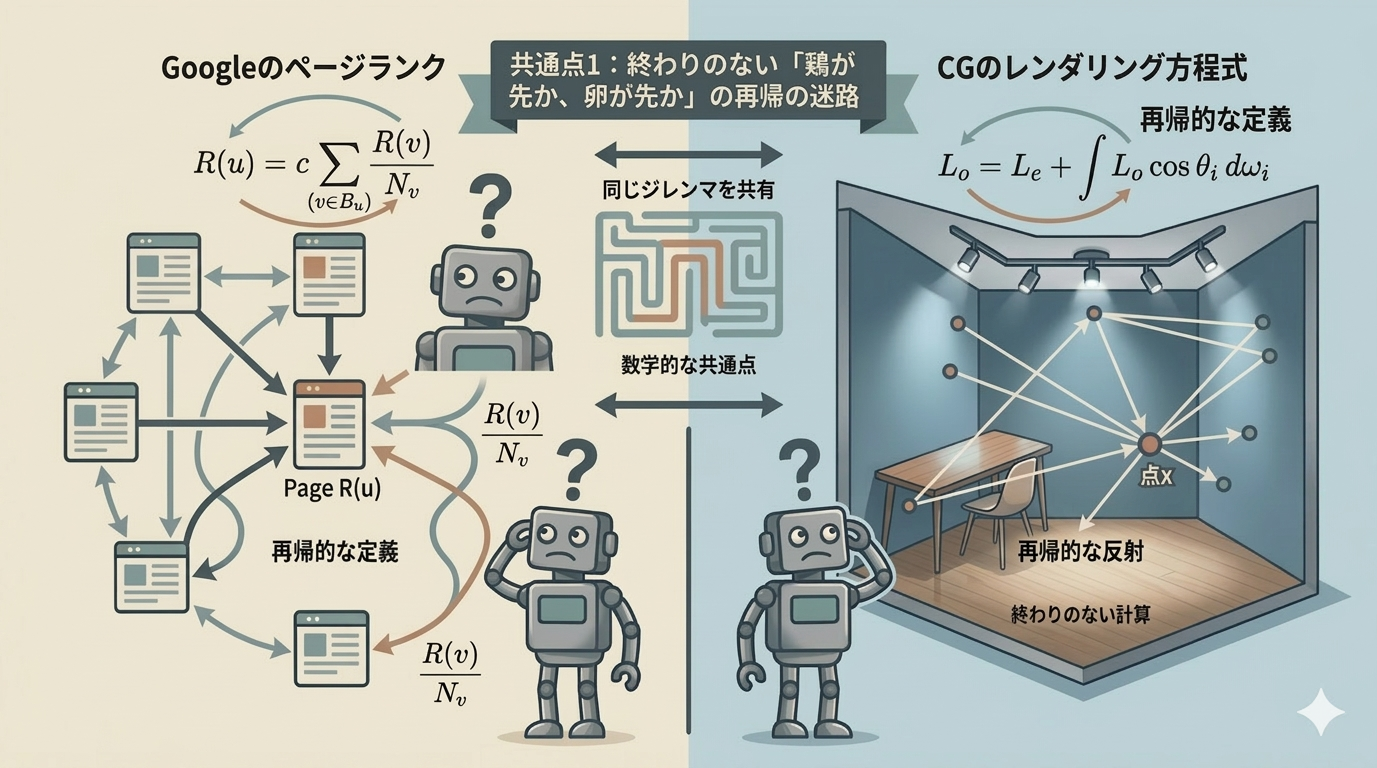
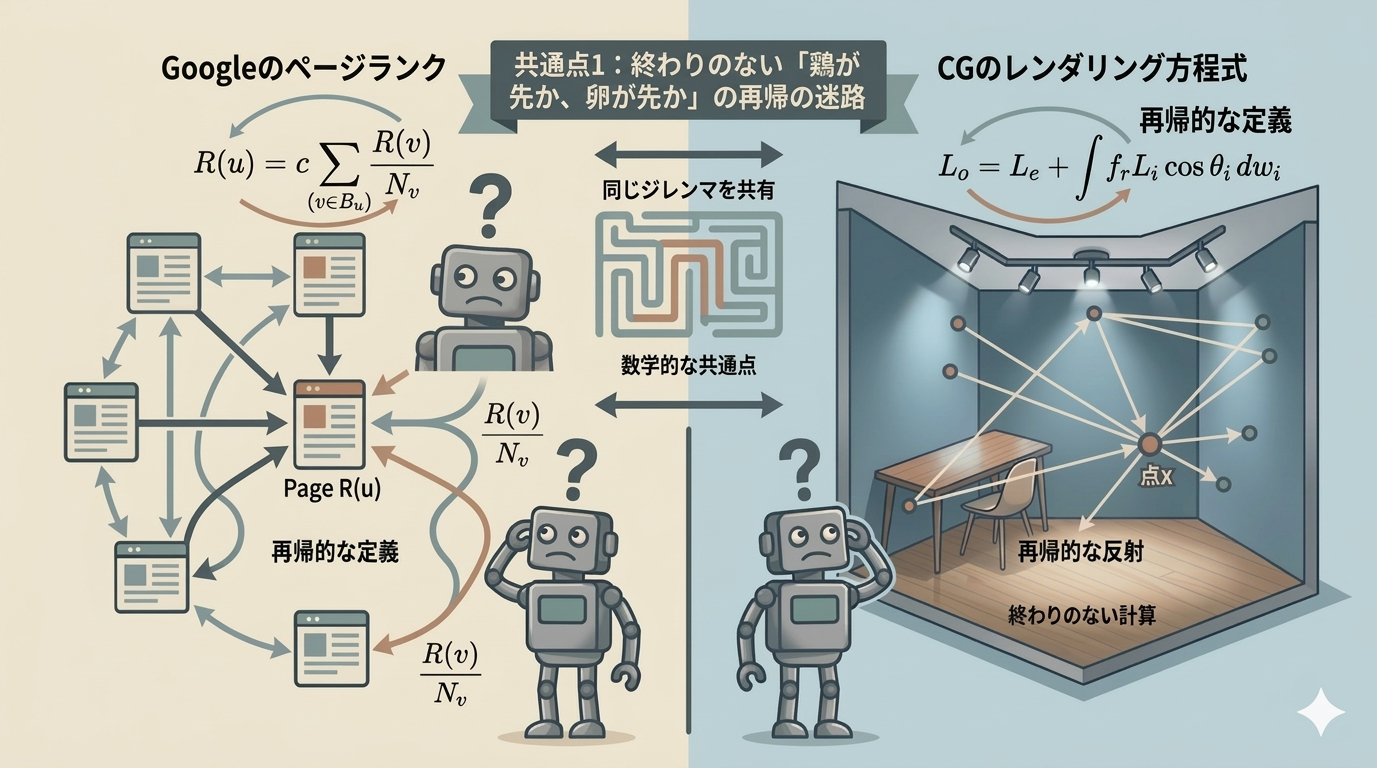
共通点1の画像を差し替え

diff --git a/blog/2026/03/16/google-and-raytracing/index.html b/blog/2026/03/16/google-and-raytracing/index.html
@@ -200,7 +200,7 @@ text-gray-500 hover:bg-gray-100 hover:text-gray-900 dark:text-gray-300 dark:hove
     
     
   </div></nav><article class="w-full break-words flex min-h-[calc(100vh-var(--navbar-height))] min-w-0 justify-center pb-8 pr-[calc(env(safe-area-inset-right)-1.5rem)]"><main class="w-full min-w-0 max-w-6xl px-6 pt-4 md:px-12"><h1 class="mt-2 text-4xl font-bold tracking-tight text-slate-900 dark:text-slate-100" data-pagefind-meta=title data-pagefind-body>Google検索とレイトレーシング、実は同じ数理アルゴリズムで動いていた。1998年に起きた「計算機科学の奇跡」</h1><div class="mt-4 mb-16"><div class="text-gray-500 dark:text-gray-300 text-sm flex items-center flex-wrap gap-y-2"><span class=mr-1>Mar 16, 2026</span><span class=mx-1>·</span><div class="group inline-flex items-center text-current gap-x-1.5 mx-1"><img src=/media/authors/gam0022_hu_53cc7620d937d819.webp width=16 height=16 alt=gam0022 class="inline-block h-4 w-4 rounded-full border border-current" loading=lazy><div>gam0022</div></div><span class=mx-1>·</span>
-<span class=mx-1>14 min read</span></div><div class=mt-3></div></div><div class="article-header article-container featured-image-wrapper mt-4 mb-16" style=max-width:720px;max-height:402px><div style=position:relative><img srcset="/blog/2026/03/16/google-and-raytracing/thumbnail_hu_5acbd323da471826.webp 320w, /blog/2026/03/16/google-and-raytracing/thumbnail_hu_b67d929740229d0e.webp 480w, /blog/2026/03/16/google-and-raytracing/thumbnail_hu_934616a30bf87a7c.webp 640w, /blog/2026/03/16/google-and-raytracing/thumbnail_hu_71cbc1703f2666e4.webp 720w, /blog/2026/03/16/google-and-raytracing/thumbnail_hu_172af6916e844512.webp 720w" sizes="(max-width: 480px) 100vw, (max-width: 640px) 90vw, (max-width: 720px) 80vw, 720px" src=/blog/2026/03/16/google-and-raytracing/thumbnail_hu_5acbd323da471826.webp data-pagefind-meta=image[src] width=720 height=402 alt class=featured-image fetchpriority=high></div></div><div class="prose prose-slate lg:prose-xl dark:prose-invert max-w-full main-content" data-pagefind-body><span data-pagefind-filter=type style=display:none>blog</span><h2 id=全く別物に見える2つの世界を繋ぐ鍵>全く別物に見える2つの世界を繋ぐ「鍵」</h2><p><figure><div class="flex justify-center"><div class=w-full><img alt=全く別物に見える2つの世界を繋ぐ「鍵」 srcset="/blog/2026/03/16/google-and-raytracing/p1_46_hu_68b29a6a9a0bff31.webp 320w, /blog/2026/03/16/google-and-raytracing/p1_46_hu_510913740b9d555c.webp 480w, /blog/2026/03/16/google-and-raytracing/p1_46_hu_f5905c94e87aa758.webp 760w" sizes="(max-width: 480px) 100vw, (max-width: 768px) 90vw, (max-width: 1024px) 80vw, 760px" src=/blog/2026/03/16/google-and-raytracing/p1_46_hu_68b29a6a9a0bff31.webp width=760 height=424 loading=lazy data-zoomable></div></div></figure></p><p>Google検索の順位を決める <strong>ページランク</strong> と、最新ゲームや映画を彩る本物のようなリアルな光の表現を生み出す <strong>レイトレーシング</strong>。</p><p>一見すると無関係な2つの領域ですが、その根底には <strong>同じ数理アルゴリズム</strong> が流れています。</p><p>膨大なWebページ相互参照の網から <strong>重要なページ</strong> を特定する問題も、3D空間上で無限に反射し続ける光の中で <strong>正確な輝度</strong> を求める問題も、本質的には同じ構造を持っています。</p><p>一見バラバラな領域が、一つの「知の体系」へと収束していく。1998年に起きた知的な大いなる合流について、紐解いていきましょう。</p><h2 id=共通点1終わりのない鶏が先か卵が先かの再帰の迷路>共通点1：終わりのない「鶏が先か、卵が先か」の再帰の迷路</h2><p>Googleの <strong>ページランク</strong> と、光の挙動を記述する <strong>レンダリング方程式</strong> 。この両者が抱える共通の難問、それは <strong>再帰的な定義（自己参照）</strong> という数学的な迷宮です。</p><p><figure><div class="flex justify-center"><div class=w-full><img alt=共通点1：終わりのない「鶏が先か、卵が先か」の再帰の迷路 srcset="/blog/2026/03/16/google-and-raytracing/point1_v3_hu_aa049d3e8be93786.webp 320w, /blog/2026/03/16/google-and-raytracing/point1_v3_hu_7be9a2e63a9b0406.webp 480w, /blog/2026/03/16/google-and-raytracing/point1_v3_hu_9658180364ea4e00.webp 760w" sizes="(max-width: 480px) 100vw, (max-width: 768px) 90vw, (max-width: 1024px) 80vw, 760px" src=/blog/2026/03/16/google-and-raytracing/point1_v3_hu_aa049d3e8be93786.webp width=760 height=424 loading=lazy data-zoomable></div></div></figure></p><h3 id=googleのページランクのジレンマ>Googleのページランクのジレンマ</h3><p>Googleの重要度計算の核となる「ページランク」の考え方はシンプルです。 <strong>「ランクの高いページからリンクされているページは、ランクが高い」</strong> というものです。</p><p>しかし、ここに数学的な難問が潜んでいます。ページAのランクを知るには、リンク元であるページBのランクを知る必要があります。しかし、そのページBのランクを知るためには、さらにそのリンク元のランクを知る必要があり……というように、定義が <strong>再帰的（自己参照的）</strong> になっています。</p><p>ラリー・ペイジ（Larry Page）らによるPageRankの元論文<sup id=fnref:1><a href=#fn:1 class=footnote-ref role=doc-noteref>1</a></sup>にページランクの数学的な定義が記述されています。</p>$$
+<span class=mx-1>14 min read</span></div><div class=mt-3></div></div><div class="article-header article-container featured-image-wrapper mt-4 mb-16" style=max-width:720px;max-height:402px><div style=position:relative><img srcset="/blog/2026/03/16/google-and-raytracing/thumbnail_hu_5acbd323da471826.webp 320w, /blog/2026/03/16/google-and-raytracing/thumbnail_hu_b67d929740229d0e.webp 480w, /blog/2026/03/16/google-and-raytracing/thumbnail_hu_934616a30bf87a7c.webp 640w, /blog/2026/03/16/google-and-raytracing/thumbnail_hu_71cbc1703f2666e4.webp 720w, /blog/2026/03/16/google-and-raytracing/thumbnail_hu_172af6916e844512.webp 720w" sizes="(max-width: 480px) 100vw, (max-width: 640px) 90vw, (max-width: 720px) 80vw, 720px" src=/blog/2026/03/16/google-and-raytracing/thumbnail_hu_5acbd323da471826.webp data-pagefind-meta=image[src] width=720 height=402 alt class=featured-image fetchpriority=high></div></div><div class="prose prose-slate lg:prose-xl dark:prose-invert max-w-full main-content" data-pagefind-body><span data-pagefind-filter=type style=display:none>blog</span><h2 id=全く別物に見える2つの世界を繋ぐ鍵>全く別物に見える2つの世界を繋ぐ「鍵」</h2><p><figure><div class="flex justify-center"><div class=w-full><img alt=全く別物に見える2つの世界を繋ぐ「鍵」 srcset="/blog/2026/03/16/google-and-raytracing/p1_46_hu_68b29a6a9a0bff31.webp 320w, /blog/2026/03/16/google-and-raytracing/p1_46_hu_510913740b9d555c.webp 480w, /blog/2026/03/16/google-and-raytracing/p1_46_hu_f5905c94e87aa758.webp 760w" sizes="(max-width: 480px) 100vw, (max-width: 768px) 90vw, (max-width: 1024px) 80vw, 760px" src=/blog/2026/03/16/google-and-raytracing/p1_46_hu_68b29a6a9a0bff31.webp width=760 height=424 loading=lazy data-zoomable></div></div></figure></p><p>Google検索の順位を決める <strong>ページランク</strong> と、最新ゲームや映画を彩る本物のようなリアルな光の表現を生み出す <strong>レイトレーシング</strong>。</p><p>一見すると無関係な2つの領域ですが、その根底には <strong>同じ数理アルゴリズム</strong> が流れています。</p><p>膨大なWebページ相互参照の網から <strong>重要なページ</strong> を特定する問題も、3D空間上で無限に反射し続ける光の中で <strong>正確な輝度</strong> を求める問題も、本質的には同じ構造を持っています。</p><p>一見バラバラな領域が、一つの「知の体系」へと収束していく。1998年に起きた知的な大いなる合流について、紐解いていきましょう。</p><h2 id=共通点1終わりのない鶏が先か卵が先かの再帰の迷路>共通点1：終わりのない「鶏が先か、卵が先か」の再帰の迷路</h2><p>Googleの <strong>ページランク</strong> と、光の挙動を記述する <strong>レンダリング方程式</strong> 。この両者が抱える共通の難問、それは <strong>再帰的な定義（自己参照）</strong> という数学的な迷宮です。</p><p><figure><div class="flex justify-center"><div class=w-full><img alt=共通点1：終わりのない「鶏が先か、卵が先か」の再帰の迷路 srcset="/blog/2026/03/16/google-and-raytracing/point1_v3_hu_64339bcd6c4a32c3.webp 320w, /blog/2026/03/16/google-and-raytracing/point1_v3_hu_aa08ca5cb8880b24.webp 480w, /blog/2026/03/16/google-and-raytracing/point1_v3_hu_2e79946832bc7b6e.webp 760w" sizes="(max-width: 480px) 100vw, (max-width: 768px) 90vw, (max-width: 1024px) 80vw, 760px" src=/blog/2026/03/16/google-and-raytracing/point1_v3_hu_64339bcd6c4a32c3.webp width=760 height=424 loading=lazy data-zoomable></div></div></figure></p><h3 id=googleのページランクのジレンマ>Googleのページランクのジレンマ</h3><p>Googleの重要度計算の核となる「ページランク」の考え方はシンプルです。 <strong>「ランクの高いページからリンクされているページは、ランクが高い」</strong> というものです。</p><p>しかし、ここに数学的な難問が潜んでいます。ページAのランクを知るには、リンク元であるページBのランクを知る必要があります。しかし、そのページBのランクを知るためには、さらにそのリンク元のランクを知る必要があり……というように、定義が <strong>再帰的（自己参照的）</strong> になっています。</p><p>ラリー・ペイジ（Larry Page）らによるPageRankの元論文<sup id=fnref:1><a href=#fn:1 class=footnote-ref role=doc-noteref>1</a></sup>にページランクの数学的な定義が記述されています。</p>$$
 R(u) = c \sum_{v \in B_u} \frac{R(v)}{N_v}
 $$<p>各変数の意味は以下の通りです。</p><ul><li><strong>$R(u)$</strong>：ページ $u$ のページランク値</li><li><strong>$B_u$</strong>：ページ $u$ にリンクしているページの集合</li><li><strong>$R(v)$</strong>：ページ $u$ へリンクしている個々のページ $v$ のページランク。これが <strong>再帰を意味する</strong></li><li><strong>$N_v$</strong>：ページ $v$ から出ているリンクの総数</li><li><strong>$c$</strong>：全ページのランクの総和を一定に保つための正規化係数</li></ul><p>ページランク $R(u)$ （式の左辺）を知るためには、そのページにリンクしている全ページのページランク $R(v)$ （式の右辺）を確定させる必要があります。</p><p>ウェブ全体という膨大なネットワークにおいて、この巨大な「鶏が先か卵が先か」という連立方程式を厳密に解くことは、計算コストの面で極めて困難です。</p><h3 id=cgのレンダリング方程式のジレンマ>CGのレンダリング方程式のジレンマ</h3><p>一方、CG（コンピュータグラフィックス）のレンダリング計算も、全く同じ <strong>再帰的な定義</strong> の壁に直面しています。</p><p>ある地点の明るさ（輝度）を決めるには、周囲のあらゆる方向から届く光を合計しなければなりません。 しかし、その届く光の強さは、「別の場所で反射してきた光」です。 つまり、地点Aの明るさを決めるには地点Bの明るさが必要で、地点Bの明るさを決めるには地点Cの明るさが必要になる……という、無限の連鎖（再帰）が発生します。</p><p>物理的な光の挙動を示す <strong>レンダリング方程式</strong> は、ある点 $x$ から出る輝度 $L_o$ を半球上の積分として定義します<sup id=fnref:2><a href=#fn:2 class=footnote-ref role=doc-noteref>2</a></sup>。</p>$$
 L_o(x, \vec{\omega}_o) = L_e(x, \vec{\omega}_o) + \int_{\Omega} f_r(x, \vec{\omega}_i, \vec{\omega}_o) L_i(x, \vec{\omega}_i) \cos \theta_i d\vec{\omega}_i
